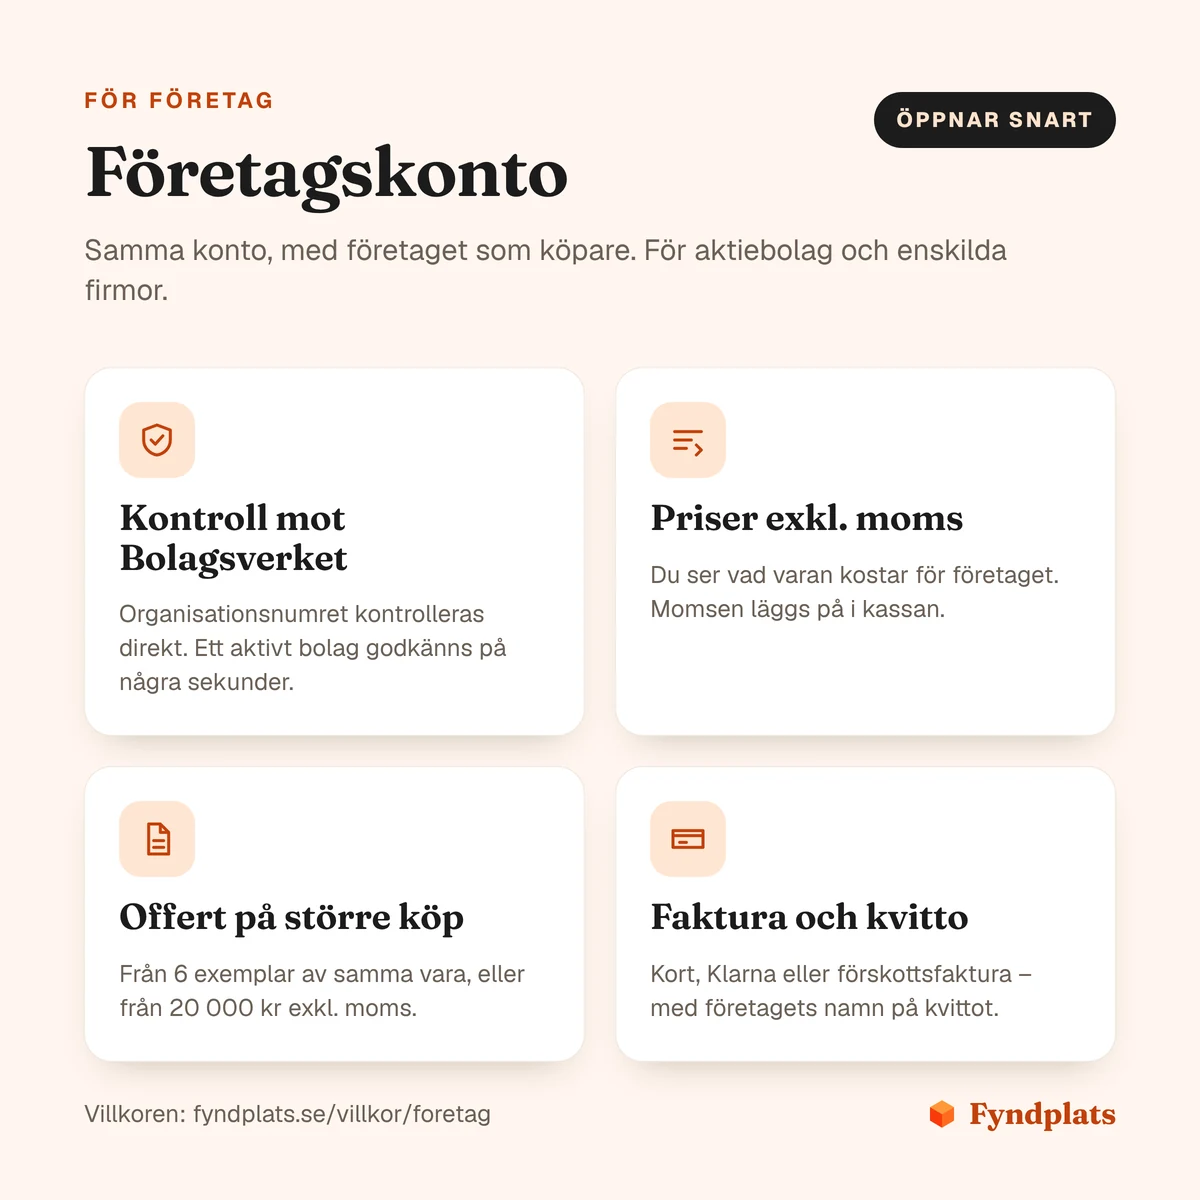
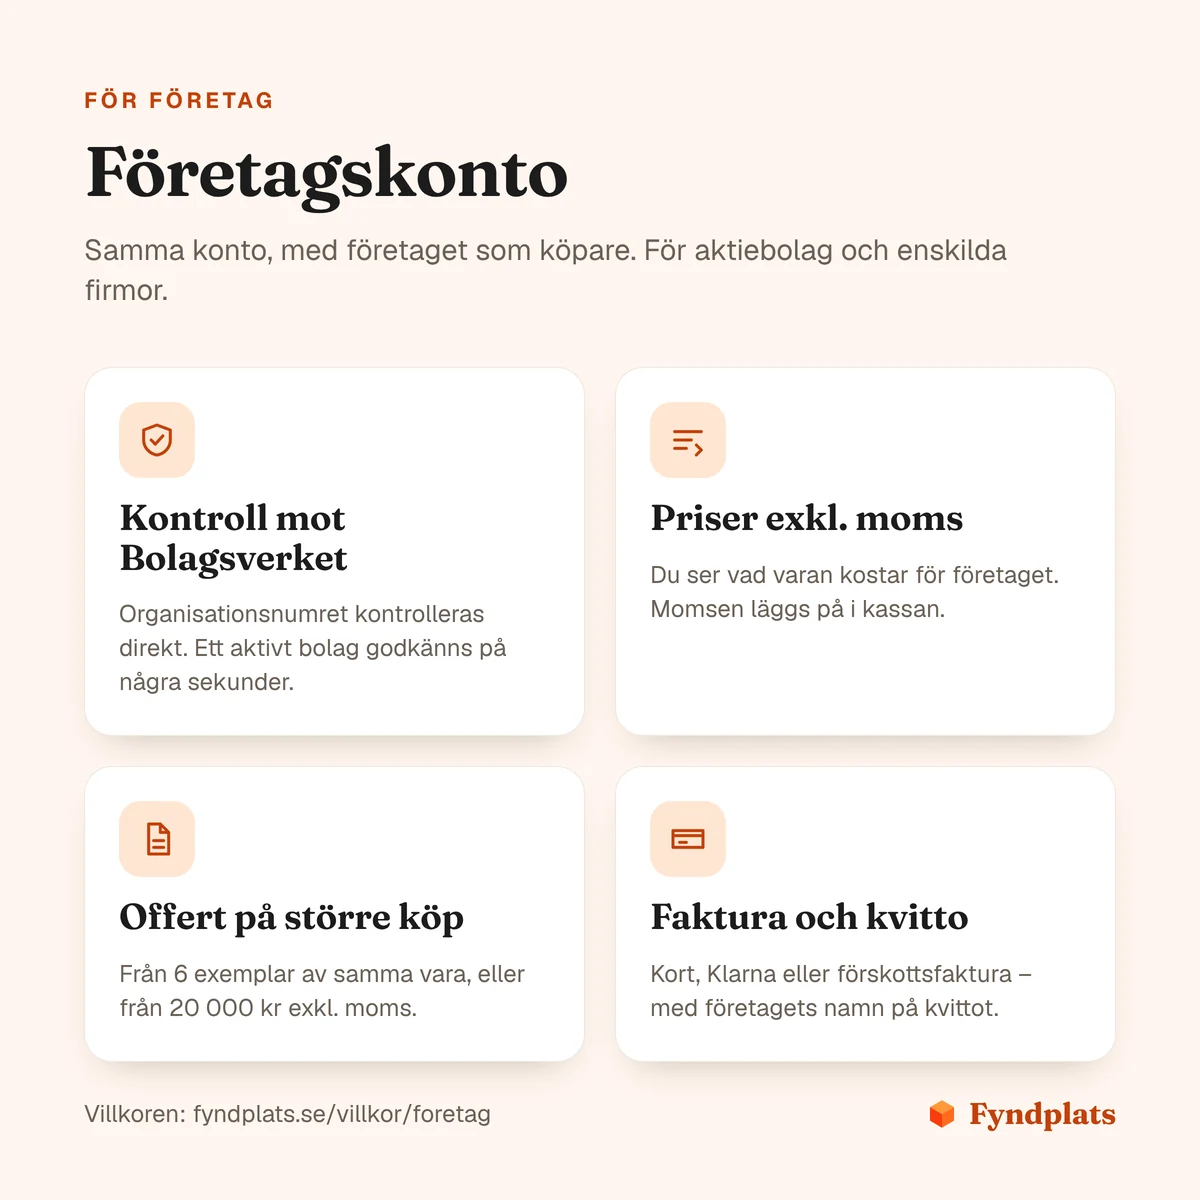
Blogg: medlemspriset och företagskontot är igång
- Texten i presens: medlemspriset syns på varan, i varukorgen och i
  kassan, och företagskontot är öppet. Inga "snart" kvar.
- Ny bild: produktsidan med Platina-rutan, ett utsnitt ur produktionen.
- Mina sidor-bilden har raden om att medlemspriset gäller, och
  företagsbilden saknar brickan "Öppnar snart".

Claude-Session: https://claude.ai/code/session_01RkBKnLt7GvRz26vpfHRMWZ

Changed region(s): [[0.7092, 0.0617, 0.925, 0.1233]]

diff --git a/content/blog/medlemskap-sa-funkar-det.md b/content/blog/medlemskap-sa-funkar-det.md
@@ -2,7 +2,7 @@
 title: "Bli medlem hos Fyndplats: så funkar ditt konto – för dig och för företag"
 seo_title: "Medlemskap hos Fyndplats – så funkar det"
 slug: medlemskap-sa-funkar-det
-meta_description: "Bli medlem hos Fyndplats gratis och utan lösenord. Dina köp, paket och kvitton på ett ställe, sex nivåer – och ett företagskonto som öppnar snart."
+meta_description: "Bli medlem hos Fyndplats gratis och utan lösenord. Ditt eget medlemspris, dina köp och paket på ett ställe, sex nivåer – och ett företagskonto."
 primary_keyword: medlemskap
 category: Nyheter
 publish_date: 2026-11-07
@@ -15,7 +15,7 @@ alt: "Tre medlemskort från Fyndplats i silver, guld och svart, under rubriken B
 
 # Bli medlem hos Fyndplats: så funkar ditt konto – för dig och för företag
 
-Nu kan alla som handlar hos oss skapa ett medlemskonto. Det är gratis, och det finns inget lösenord att hålla reda på: du loggar in med en kod som vi mejlar. På **Mina sidor** samlas dina ordrar, paketen du väntar på, dina kvitton och din medlemsnivå. Köp du redan har gjort under det senaste året räknas direkt.
+Nu kan alla som handlar hos oss skapa ett medlemskonto. Det är gratis, och det finns inget lösenord att hålla reda på: du loggar in med en kod som vi mejlar. På **Mina sidor** samlas dina ordrar, paketen du väntar på, dina kvitton och din medlemsnivå. Köp du redan har gjort under det senaste året räknas direkt. Från Silver och uppåt får du dessutom ett eget medlemspris på det mesta i sortimentet.
 
 [![Så blir du medlem i tre steg: skriv din e-post, skriv koden från mejlet, och Mina sidor öppnas med ditt medlemskort](/blog-medlemskap-steg.webp)](/konto "Bli medlem – det tar en minut")
 
@@ -46,7 +46,7 @@ Sedan är du inloggad i 90 dagar på telefonen eller datorn du använde, och ti
 
 Alla medlemmar börjar på Brons. Sedan räknar vi ihop vad du har handlat för de senaste 365 dagarna, och nivån följer med av sig själv. Du behöver inte samla poäng eller lösa in något.
 
-| Nivå | Handlat de senaste 365 dagarna | Medlemsrabatt när medlemspriserna startar |
+| Nivå | Handlat de senaste 365 dagarna | Medlemsrabatt |
 |---|---|---|
 | Brons | alla medlemmar | – |
 | Silver | från 2 000 kr | 1 % |
@@ -62,15 +62,19 @@ Så räknas det:
 - **Returer räknas av.** Får du pengar tillbaka minskar summan med lika mycket.
 - **Vi säger till.** Du får ett mejl när du når en ny nivå och två veckor innan din nivå skulle sjunka. Mejlen om nivån kan du stänga av när du vill.
 
-## Medlemspriser – snart i kassan
+## Ditt medlemspris – på varan, i varukorgen och i kassan
 
-Din nivå räknas redan nu, men medlemspriserna är inte igång än. När de startar visas ditt medlemspris på varorna, i varukorgen och i kassan, och rabatten följer din nivå enligt tabellen. Den gäller det mesta i sortimentet, men inte reavaror eller Fyndauktionen, och den går inte att kombinera med rabattkoder. På vissa varor kan rabatten bli lägre än nivåns, och det ser du på varan innan du handlar.
+[![Produktsidan för en espressomaskin med priset 1 259 kr och under det en grön ruta: Ditt medlemspris 1 221,23 kr, Platina 3 %, lägsta pris de senaste 30 dagarna 1 259 kr](/blog-medlemskap-medlemspris.webp)](/konto "Logga in och se ditt pris")
 
-## Företagskonto – öppnar snart
+När du är inloggad ser du ditt medlemspris direkt på varan, i din nivås färg, och samma pris i varukorgen och i kassan. Rabatten följer din nivå enligt tabellen och gäller det mesta i sortimentet, men inte reavaror eller Fyndauktionen. Den går inte att kombinera med rabattkoder. På vissa varor kan rabatten bli lägre än nivåns, och då står det på varan innan du handlar.
+
+*Bilden visar ett exempel för en Platina-medlem.*
+
+## Företagskonto – handla som ditt företag
 
 [![Företagskontot: kontroll mot Bolagsverket, priser exklusive moms, offert på större köp, och faktura och kvitto med företagets namn](/blog-medlemskap-foretag.webp)](/villkor/foretag "Läs företagsvillkoren")
 
-Handlar du till jobbet? Snart kan du koppla ett företag till ditt konto och handla som företaget, med samma inloggning.
+Handlar du till jobbet? Koppla ett företag till ditt konto och handla som företaget, med samma inloggning.
 
 - **Ansök på Mina sidor** med organisationsnumret. Vi kontrollerar uppgifterna mot Bolagsverket direkt, så ett aktivt bolag godkänns på några sekunder. En enskild firma går vi igenom för hand.
 - **Priser exklusive moms** när du handlar som företaget. I kassan läggs momsen på, och det är det beloppet som betalas.
@@ -79,7 +83,7 @@ Handlar du till jobbet? Snart kan du koppla ett företag till ditt konto och han
 - **Kort, Klarna eller förskottsfaktura.** Förskottsfakturan betalas inom 10 dagar, och varorna skickas när betalningen har kommit in.
 - **Kvitto och faktura med företagets namn**, och för ett bolag också organisationsnumret.
 
-Företagskontot öppnar tillsammans med medlemspriserna. Villkoren kan du läsa redan nu: [företagsvillkoren](/villkor/foretag).
+Villkoren för företagskontot finns i [företagsvillkoren](/villkor/foretag).
 
 ## Dina uppgifter
 
@@ -102,11 +106,11 @@ Det du betalade för varorna de senaste 365 dagarna, utan frakt. Ett köp räkn
 ### Kan min nivå sjunka?
 Ja, när köpen som håller uppe den blir äldre än ett år. Vi mejlar två veckor innan, och när det närmar sig ser du på Mina sidor hur mycket som behövs för att behålla nivån.
 
-### När kommer medlemspriserna?
-De är inte igång än. När de startar syns ditt medlemspris direkt på varorna, i varukorgen och i kassan.
+### Var ser jag mitt medlemspris?
+Logga in, så syns ditt medlemspris direkt på varorna, i varukorgen och i kassan. Medlemspriset börjar på nivån Silver.
 
 ### Kan mitt företag bli medlem?
-Företagskontot öppnar snart, tillsammans med medlemspriserna. Har du redan ett konto ansöker du på Mina sidor när det har öppnat.
+Ja. Logga in och ansök på Mina sidor med organisationsnumret. Ett aktivt bolag godkänns direkt efter kontrollen hos Bolagsverket, och en enskild firma går vi igenom för hand.
 
 ### Hur tar jag bort mitt konto?
 Mejla info@fyndplats.com så tar vi bort det. Dina ordrar finns kvar, som bokföringslagen kräver.
